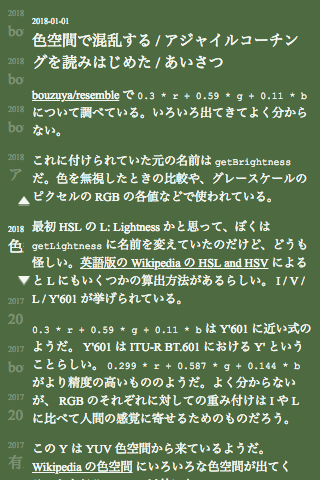
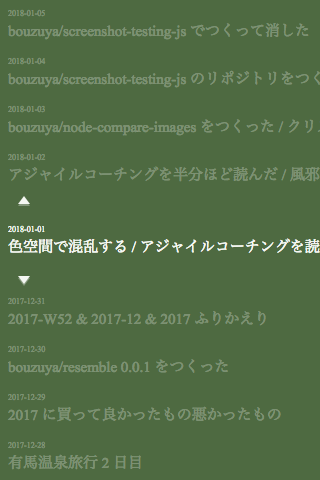
update tests

Changed region(s): [[0.0625, 0.3125, 1.0, 1.0], [0.0625, 0.0, 1.0, 0.2812], [0.875, 0.875, 0.9062, 0.9062]]

diff --git a/test/scenario/index.ts b/test/scenario/index.ts
@@ -8,6 +8,14 @@ const scenarios: Scenario[] = [
       await page.goto('https://blog.bouzuya.net/2018/01/01/');
       return {};
     },
+    name: 'entry-detail/320x480'
+  },
+  {
+    action: async (page: Page) => {
+      await page.setViewport({ height: 480, width: 320 });
+      await page.goto('https://blog.bouzuya.net/2018/01/01/related/');
+      return {};
+    },
     name: 'entry-index/320x480'
   }
 ];
